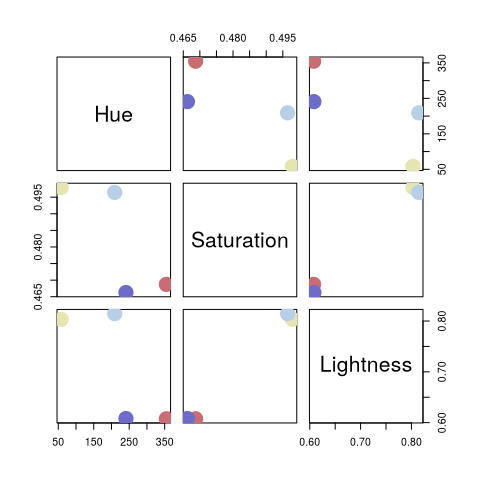
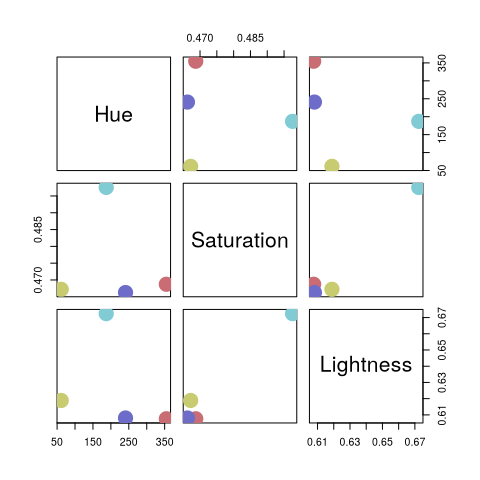
docs: fix branch links in readme

diff --git a/README.md b/README.md
@@ -58,10 +58,10 @@ the palette we have generated.
 
 ``` r
 pal2$de_DIN99d
-#>          #c96c74  #e5e4b3  #6d6cc9
-#> #e5e4b3 22.12508                  
-#> #6d6cc9 21.60194 28.00911         
-#> #b8d0e7 23.03117 17.84409 19.07144
+#>          #c96c74  #6d6cc9  #81cbd5
+#> #6d6cc9 21.60194                  
+#> #81cbd5 25.95410 21.45727         
+#> #c8cb70 22.29156 29.27338 20.55607
 ```
 
 The palette may also be plotted with in a multidimensional scaling plot
@@ -103,10 +103,10 @@ Versioning is based on [semantic versioning](https://semver.org/).
 ## Code of conduct
 
 Please note that this project is released with a [Contributor Code of
-Conduct](https://github.com/jolars/qualpalr/blob/master/CONDUCT.md). By
+Conduct](https://github.com/jolars/qualpalr/blob/main/CONDUCT.md). By
 participating in this project you agree to abide by its terms.
 
 ## License
 
 `qualpalr` is open source software, licensed under
-[GPL-3](https://github.com/jolars/qualpalr/blob/master/LICENSE).
+[GPL-3](https://github.com/jolars/qualpalr/blob/main/LICENSE).
